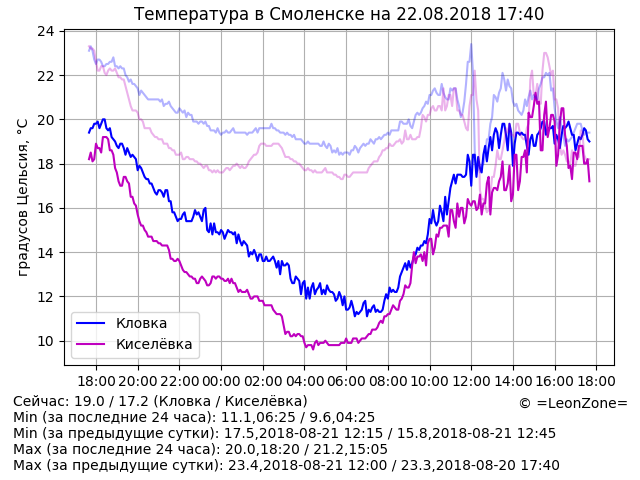
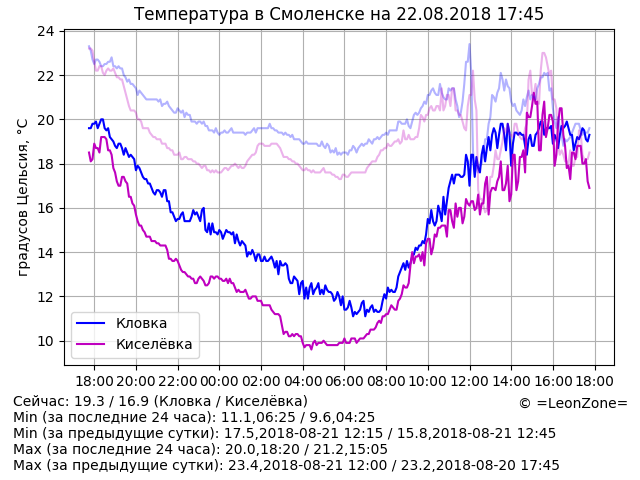
Update data

diff --git a/index.html b/index.html
@@ -14,11 +14,11 @@
 	<p align="center"><script>document.write("<img src=\"graph.png?rnd="+Math.random()+"\" alt=\"Температура в Смоленске\" align=\"middle\" width=\"640\" height=\"480\" />")</script>
 	<p hidden="true">
 <!-- textinfo -->
-Сейчас: 19.0 / 17.2 (Кловка / Киселёвка)
+Сейчас: 19.3 / 16.9 (Кловка / Киселёвка)
 Min (за последние 24 часа): 11.1,06:25 / 9.6,04:25
 Min (за предыдущие сутки): 17.5,2018-08-21 12:15 / 15.8,2018-08-21 12:45
 Max (за последние 24 часа): 20.0,18:20 / 21.2,15:05
-Max (за предыдущие сутки): 23.4,2018-08-21 12:00 / 23.3,2018-08-20 17:40
+Max (за предыдущие сутки): 23.4,2018-08-21 12:00 / 23.2,2018-08-20 17:45
 <!-- /textinfo -->
 	<footer hidden="true">© =LeonZone=</footer>
 </body>
